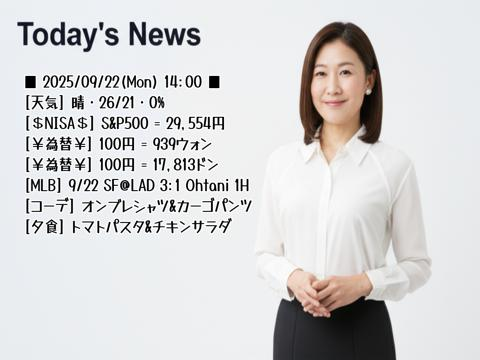
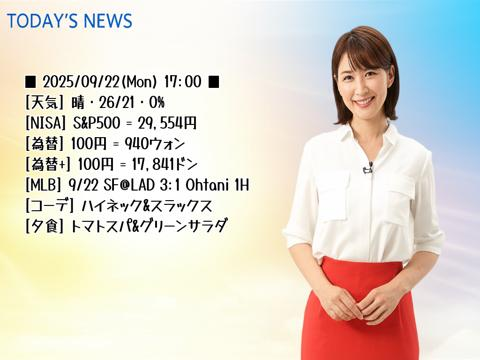
20250922#2_modify
modify : review

diff --git a/templates/js/review.js b/templates/js/review.js
@@ -26,28 +26,9 @@ document.addEventListener("DOMContentLoaded", () => {
 
     getElemByTag(TAG_H1).textContent = "アプリ・レビュー";
 
-    let selectList = [
-      [
-        "アプリ",
-        STR_APP,
-        ["Line Message", "Travel & Life", "Number Plate", "その他"],
-        0
-      ],
-      [
-        "カテゴリー",
-        STR_CATEGORY,
-        ["レビュー", "メモ", "その他"],
-        0
-      ],
-    ];
-
-    let parentElemId = ELEM_ID_DIV;
-    for (const [lblTxt, elemId, txtList, selectValIdx] of selectList) {
-      createElem(TAG_LABEL, lblTxt, parentElemId);
-      createOption(elemId, elemId, txtList, parentElemId, selectValIdx);
-    }
-
-    const thList = ["No.", "区分", "内容"];
+    const thList = ["No.", "アプリ", "カテゴリー", "区分", "内容"];
+    const appTxtList = ["Line Message", "Travel & Life", "Number Plate", "その他"];
+    const ctgTxtList = ["レビュー", "メモ", "エラー", "その他"];
     const typeTxtList = ["機能追加", "機能修正", "レイアウト", "その他"];
 
     parentElemId = ELEM_ID_TABLE;
@@ -70,6 +51,10 @@ document.addEventListener("DOMContentLoaded", () => {
           if (j === 0) {
             getElem(tdId2).textContent = i;
           } else if (j === 1) {
+            createOption(STR_APP + strIdx, STR_APP, appTxtList, tdId2, 0);
+          } else if (j === 2) {
+            createOption(STR_CATEGORY + strIdx, STR_CATEGORY, ctgTxtList, tdId2, 0);
+          } else if (j === 3) {
             createOption(STR_TYPE + strIdx, STR_TYPE, typeTxtList, tdId2, 0);
           } else {
             createElem(TAG_TEXTAREA, ELEM_ID_TEXTAREA + strIdx, tdId2);
@@ -83,7 +68,6 @@ document.addEventListener("DOMContentLoaded", () => {
 
   // 初期表示
   init();
-  setUserName();
 });
 
 // ユーザ名設定
@@ -101,13 +85,13 @@ function sendReview() {
 
   form.addEventListener("submit", async function (e) {
     e.preventDefault();
-    const app = getElem(STR_APP).value;
-    const category = getElem(STR_CATEGORY).value;
 
     let reviewList = [];
     let addCnt = 0;
-    for (let i = 1; i <= 5; i++) {
+    for (let i = 1; i <= NUM_BOARD_CNT; i++) {
       const idx = i.toString();
+      const app = getElem(STR_APP + idx).value;
+      const category = getElem(STR_CATEGORY + idx).value;
       const type = getElem(STR_TYPE + idx).value;
       const contents = getElem(ELEM_ID_TEXTAREA + idx).value;
       if (contents) {
@@ -130,6 +114,8 @@ function sendReview() {
       if (isLocal()) {
         url = URL_BOARD_LOCAL;
       }
+
+      setUserName();
 
       const res = await fetch(url, {
         method: "POST",

diff --git a/apps/mlb.py b/apps/mlb.py
@@ -50,8 +50,12 @@ def get_mlb_game_data(
         batters = my_team_data["batters"]
         pitchers = my_team_data["pitchers"]
 
+        add_cnt = 0
         for player_id in player_id_list:
             if player_id in batters or player_id in pitchers:
+                if 0 < add_cnt and add_cnt < len(player_id_list):
+                    stat_data_list.append(const.SYM_NEW_LINE)
+
                 players_data = game_data["gameData"]["players"]
                 for key, value in players_data.items():
                     if value.get("id") == player_id:
@@ -63,6 +67,7 @@ def get_mlb_game_data(
                 if player_data:
                     game_stat = get_game_stats(player_data)
                     stat_data_list.extend(game_stat)
+                    add_cnt += 1
 
         if pog_flg:
             player_of_game_data = get_player_of_game_data(team_id, game_data)

diff --git a/apps/utils/function_gemini.py b/apps/utils/function_gemini.py
@@ -182,10 +182,10 @@ def get_today_news_image(
         "※以下内容を参考してください。"
         "番組名は、「Today's News」。イメージの左上に英語のロゴを、改行せず1行に表示する。"
         "イメージには、ロゴ以外の文字は、何も表示しない。"
-        f"{contents_outfit}"
-        f"イメージのの背景は、{forecast}が分かるようにする。"
-        f"イメージには、{forecast}以外の内容を、一切反映しない。"
+        f"イメージのの背景は、天気情報の「{forecast}」が分かるようにする。"
+        f"イメージには、天気情報の「{forecast}」以外の内容を、一切反映しない。"
         "イメージの背景は、黒系の暗い色や複雑なイメージは避ける。"
+        f"{contents_outfit}"
     )
 
     # 英語に翻訳

diff --git a/apps/utils/sequence_dao.py b/apps/utils/sequence_dao.py
@@ -11,7 +11,7 @@ COLL = const.COLL_SEQUENCE
 # シーケンス取得し、インクリメント
 def get_sequence_and_update(client, div: str, seq_val: int) -> int:
     cond = {"sDiv": div}
-    update_data = {"$inc": {"nSeq": seq_val}, "$set": {"dUpdateDate": get_now}}
+    update_data = {"$inc": {"nSeq": seq_val}, "$set": {"dUpdateDate": get_now()}}
     result = func_mongo.db_find_update(client, COLL, cond, update_data)
     seq = result["nSeq"]
     return seq

diff --git a/apps/today.py b/apps/today.py
@@ -23,9 +23,9 @@ NEW_LINE = const.SYM_NEW_LINE
 DIV_DATE = "日時"
 DIV_WEATHER = "天気"
 DIV_WEATHER_PLUS = "天気"
-DIV_NISA = "＄NISA＄"
-DIV_RATE = "￥為替￥"
-DIV_RATE_PLUS = "￥為替￥"
+DIV_NISA = "NISA"
+DIV_RATE = "為替"
+DIV_RATE_PLUS = "為替+"
 DIV_MLB = "MLB"
 DIV_OUTFIT = "コーデ"
 DIV_DINNER = "夕食"

diff --git a/apps/utils/user_dto.py b/apps/utils/user_dto.py
@@ -90,8 +90,8 @@ class userInfo:
     sTel: str
     sMenu: str
     nSeq: int
-    dModifiedDate: datetime = get_now
-    dLastLoginDate: datetime = get_now
+    dModifiedDate: datetime = get_now()
+    dLastLoginDate: datetime = get_now()
 
     def get_data(self):
         return asdict(self)

diff --git a/apps/utils/rank_dto.py b/apps/utils/rank_dto.py
@@ -30,7 +30,7 @@ class rankInfo:
     nNumber: int
     sRankTime: str
     sUserName: str
-    dUpdateDate: datetime = get_now
+    dUpdateDate: datetime = get_now()
 
     def get_data(self):
         return asdict(self)

diff --git a/apps/utils/board_dto.py b/apps/utils/board_dto.py
@@ -59,7 +59,7 @@ class board:
     sRemark: str
     nStatus: int
     sUserName: str
-    dUpdateDate: datetime = get_now
+    dUpdateDate: datetime = get_now()
 
     def get_data(self):
         return asdict(self)

diff --git a/apps/utils/constants.py b/apps/utils/constants.py
@@ -114,7 +114,7 @@ LINE_X_AXIS = 50
 LINE_Y_AXIS = 130
 LINE_IMG_SIZE_W = 480
 LINE_IMG_SIZE_H = 360
-LINE_IMG_X_AXIS = 280
+LINE_IMG_X_AXIS = 260
 LINE_IMG_Y_AXIS = 90
 
 # 件数
